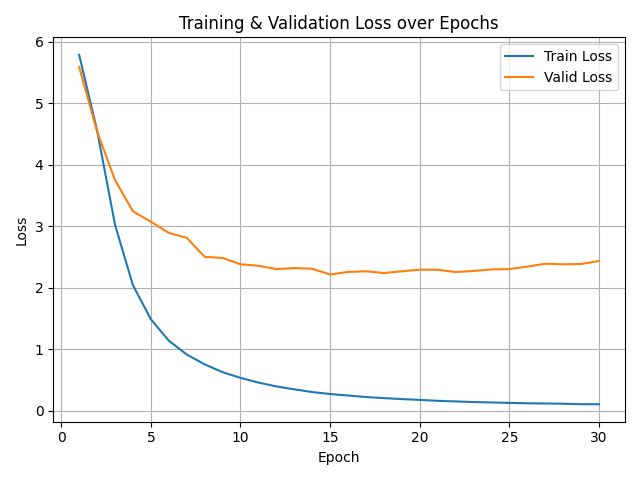
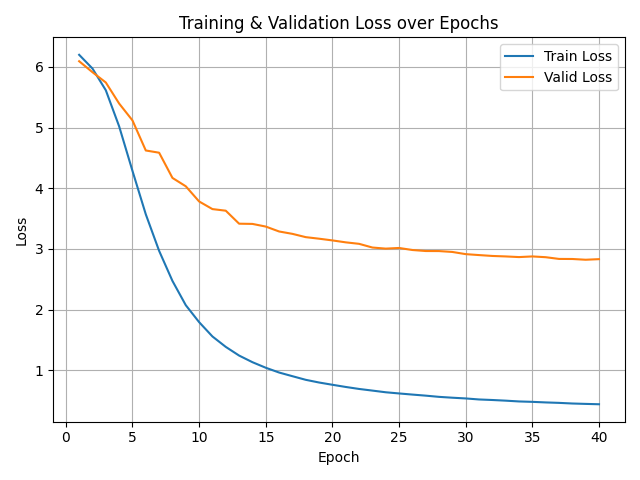
feat: add visualize.py

diff --git a/visualize.py b/visualize.py
@@ -1,0 +1,107 @@
+import os
+
+import matplotlib.pyplot as plt
+import torch
+import torch.nn.functional as F
+from PIL import Image
+
+from data_loader import Flickr8kDataset
+from models.image_encoder import ImageEncoder
+from models.text_encoder import TextEncoder
+from utils import SimpleTokenizer
+
+
+def visualize_text_to_image(
+    query_caption: str,
+    img_encoder: torch.nn.Module,
+    txt_encoder: torch.nn.Module,
+    dataset: Flickr8kDataset,
+    tokenizer: SimpleTokenizer,
+    device: torch.device,
+    topk: int = 5,
+    image_embeds_cache: torch.Tensor = None,
+):
+    img_encoder.eval()
+    txt_encoder.eval()
+
+    # 1. 计算或加载所有图片的嵌入
+    if image_embeds_cache is None:
+        all_embeds = []
+        with torch.no_grad():
+            for fn, _ in dataset.pairs:
+                img = Image.open(os.path.join(dataset.root_dir, fn)).convert("RGB")
+                x = dataset.transform(img).unsqueeze(0).to(device)
+                all_embeds.append(img_encoder(x).cpu())
+        image_embeds = torch.cat(all_embeds, dim=0)  # [N, D]
+    else:
+        image_embeds = image_embeds_cache
+
+    image_embeds = F.normalize(image_embeds, dim=1)
+
+    # 2. 编码查询文本
+    tok_ids = tokenizer.encode(query_caption)
+    tok_ids = tok_ids[: dataset.max_len] + [tokenizer.pad_token_id] * max(
+        0, dataset.max_len - len(tok_ids)
+    )
+    cap = torch.tensor(tok_ids, device=device).unsqueeze(0)
+    with torch.no_grad():
+        txt_embed = txt_encoder(cap).cpu()
+    txt_embed = F.normalize(txt_embed, dim=1)  # [1, D]
+
+    # 3. 计算相似度，取 Top-K
+    sims = (txt_embed @ image_embeds.t()).squeeze(0)  # [N]
+    top_vals, top_idxs = sims.topk(topk, largest=True)
+
+    # 4. 可视化
+    fig, axes = plt.subplots(1, topk, figsize=(3 * topk, 3))
+    fig.suptitle(f'Query: "{query_caption}"', fontsize=14)
+    for rank, idx in enumerate(top_idxs.tolist(), 1):
+        fn, _ = dataset.pairs[idx]
+        img = Image.open(os.path.join(dataset.root_dir, fn)).convert("RGB")
+        axes[rank - 1].imshow(img)
+        axes[rank - 1].set_title(f"#{rank} Score={top_vals[rank - 1]:.2f}")
+        axes[rank - 1].axis("off")
+    plt.tight_layout()
+    plt.show()
+
+
+if __name__ == "__main__":
+    # ---- 配置 ----
+    device = torch.device("cuda" if torch.cuda.is_available() else "cpu")
+    # 构建 tokenizer（需与训练时保持一致）
+    captions = [...]  # 所有原始 caption 列表
+    tokenizer = SimpleTokenizer(captions, min_freq=1)
+    vocab_size = len(tokenizer)
+
+    # 加载模型
+    ckpt = torch.load("chpts/best_clip_model.pth", map_location=device)
+    img_enc = ImageEncoder(embed_dim=256).to(device)
+    txt_enc = TextEncoder(vocab_size, embed_dim=256, encoder_type="transformer").to(
+        device
+    )
+    img_enc.load_state_dict(ckpt["img_encoder_state_dict"])
+    txt_enc.load_state_dict(ckpt["txt_encoder_state_dict"])
+
+    # 构建 dataset
+    dataset = Flickr8kDataset(
+        root_dir="Flickr8k/images",
+        captions_file="Flickr8k/val_captions.txt",
+        tokenizer=tokenizer,
+    )
+
+    # 可选：预先计算图片嵌入并缓存
+    # image_embeds_cache = ...
+    image_embeds_cache = None
+
+    # 输入一个句子，查看 Top-5 检索结果
+    query = "A man riding a bicycle on a country road."
+    visualize_text_to_image(
+        query_caption=query,
+        img_encoder=img_enc,
+        txt_encoder=txt_enc,
+        dataset=dataset,
+        tokenizer=tokenizer,
+        device=device,
+        topk=5,
+        image_embeds_cache=image_embeds_cache,
+    )

diff --git a/train.py b/train.py
@@ -117,20 +117,27 @@ def main():
     )
 
     # 构造模型（设定 embed_dim=256）
-    embed_dim = 512
+    embed_dim = 256
     img_encoder = ImageEncoder(embed_dim=embed_dim).to(device)
     txt_encoder = TextEncoder(
         vocab_size, embed_dim=embed_dim, encoder_type="transformer"
     ).to(device)
 
     # 优化器
-    optimizer = torch.optim.Adam(
-        list(img_encoder.parameters()) + list(txt_encoder.parameters()), lr=1e-4
+    # optimizer = torch.optim.Adam(
+    #     list(img_encoder.parameters()) + list(txt_encoder.parameters()), lr=1e-4
+    # )
+    optimizer = torch.optim.SGD(
+        list(img_encoder.parameters()) + list(txt_encoder.parameters()),
+        lr=1e-3,  # 通常 SGD 要比 Adam 用稍大的 lr
+        momentum=0.9,  # 动量
+        weight_decay=1e-4,  # 权重衰减
+        nesterov=True,  # 可选：Nesterov 动量
     )
 
     # best_val_loss = float("inf")
     best_recall = 0.0
-    epochs = 30
+    epochs = 40
     train_losses = []
     valid_losses = []
     for epoch in range(epochs):

diff --git a/report/report.md b/report/report.md
@@ -1,5 +1,47 @@
 # 媒体与认知 上机作业
 
+## 整体方案
+
+本次上机实验的目标是搭建一个简单的多模态模型，通过图像和文本的对比学习，实现图像和文本之间的相互检索。
+
+模型的主题是一个图像编码器 Image Encoder 和一个文本编码器 Text Encoder，模型所学习的数据集是一组图片和若干条对与图像信息的文本描述 caption，Image Encoder 和 Text Encoder 分别对输入的图像和文本进行编码，得到图像和文本的特征向量 Embedding，并且是相同维度。在共享空间中，图像嵌入和文本嵌入两两之间计算余弦相似度，得到图像和文本之间的相似度矩阵。训练过程中，通过相似度矩阵计算 InfoNCE 损失函数，并自动反向传播更新模型参数，由此完成模型的训练。
+
+### 准备部分
+
+文件 `utils.py` 定义了 `SimpleTokenizer` 类，主要功能为：
+
+1. `self.build_vocab` ：根据若干条文本 `captions` 构建词表 `self.word2idx` ，将数据集中出现的较高频词映射到整数索引。填充 PAD 的定义其索引为0，词表中未出现的词定义其索引为1。
+2. `self.encode` ：将给定输入文本 `text` 中的每个词转换为其在词表中的索引，返回一个整数列表 `token_ids` ，并截取或填充到固定长度，便于不同序列拼接为张量。
+3. `self.__len__` ：返回词表的总长度。
+
+文件 `data_loader.py` 定义了 `Flickr8kDataset` 数据集类，主要功能为：
+
+1. `self._load_pairs` ：从文件提取图片文件名和对应的文字描述，生成一个“图像文件名+文本描述”的列表。
+2. `self.__len__` ：返回数据集的大小。
+3. `self.__getitem__` ：根据索引，返回图像张量，形状为 `(B, 3, H, W)` （彩色图像通达数为3），以及对应的文本描述经过 encode 之后的 ID 张量，形状为 `(B, max_len)` 。
+
+文件 `loss.py` 定义了 InfoNCE 损失函数，根据图像的嵌入张量和文本的嵌入张量，计算余弦相似度矩阵，然后利用交叉熵得到“图像到文本方向的损失函数”和“文本到图像方向的损失函数”，取平均值作为最终的损失函数。
+
+### 模型部分
+
+图像编码器 `ImageEncoder` 类：使用自定义的 `ResNet18` 模型。在模型的前向传播中，输入的图像张量依次经过卷积、池化，并在4个 layer 阶段中通过下采样 downsample ，使得特征图大小减半、通道数翻倍，最后通过全局平均池化、展平得到一维向量。通过全连接层，将 ResNet 的输出映射到共享空间，得到归一化的图像的嵌入张量 embedding。另外，通过残差连接，可以让模型学习“残差为0”，而不是恒等映射，可以加快模型的收敛性速度，缓解梯度消失问题。
+
+文本编码器 `TextEncoder` 类：使用自定义的 Transformer 模型。首先在 `PositionalEncoding` 中对输入的文本嵌入进行位置编码，保证无序的子注意力能够区分 token 的先后顺序。在 `MultiHeadSelfAttention` 多头自注意力中，先一次性生成投影 Q,K,V 矩阵，划分为多个头并行计算，分别计算注意力分数和注意力权重（缩放点积 + softmax），最后合并多头，输出投影结果。在 `TransformerBlock` 中，子注意力子层和前馈网络子层均使残差连接，可以增大网络深度。最后在 `TransformerTextEncoder` 的前向传播中，输入的文本张量依次经过嵌入、位置编码、残差连接的 layer 层和全连接层，得到归一化的文本的嵌入张量 embedding。
+
+## 实验过程
+
+进行训练时，
+
+实验过程中，我先是尝试增大 `batch_size` 至较大值，例如512，尝试增大嵌入向量的维度 `embed_dim` 至512，这样每一批次读取的数据增多，嵌入维度增大，或许能够学习到更多细节特征，准确率会有一定提高。但是在这种情况下训练很快就出现过拟合，仅仅经过30个 epoch 后，验证集上的损失就开始出现略微的上升趋势，在第50个 epoch 时出现明显的过拟合。因此我将 `embed_dim` 降低至256，`batch_size` 仍为 512，此时训练经过 40 个 epoch 后，验证集上的损失逐渐收敛并保持平稳，结果中的 Top@K 指标也保持较高，且不低于很大 `embed_dim` 的情况。
+
+## 结果分析
+
+## 可视化展示
+
+编写可视化文件 `visualize.py` 。
+
+## 实验总结
+
 使用 LSTM 模型，batch_size=128,epochs=40测试及测试结果：
 
 ```text
@@ -28,7 +70,7 @@ Recall@5: 47.01%
 Recall@10: 56.08%
 ```
 
-使用 LSTM 模型，batch_size=512,num_workers=12,embed_dim=512,epochs=30测试及测试结果：
+使用 transformer 模型，batch_size=512,num_workers=12,embed_dim=512,epochs=30测试及测试结果：
 
 ```text
 📈 Text → Image Retrieval:
@@ -41,3 +83,49 @@ Recall@1: 27.95%
 Recall@5: 49.58%
 Recall@10: 58.18%
 ```
+
+使用 transformer 模型，batch_size=512,num_workers=12,embed_dim=256,epochs=30测试及测试结果：
+Final Test Loss: 2.2788.
+
+📈 Text → Image Retrieval:
+Recall@1: 29.71%
+Recall@5: 54.72%
+Recall@10: 63.27%
+
+📈 Image → Text Retrieval:
+Recall@1: 29.81%
+Recall@5: 51.90%
+Recall@10: 60.87%
+
+使用 transformer 模型，batch_size=512,num_workers=12,embed_dim=256,epochs=40测试及测试结果：
+Final Test Loss: 2.3385.
+
+📈 Text → Image Retrieval:
+Recall@1: 28.32%
+Recall@5: 53.53%
+Recall@10: 63.00%
+
+📈 Image → Text Retrieval:
+Recall@1: 29.16%
+Recall@5: 52.22%
+Recall@10: 61.10%
+
+换一个优化器
+    optimizer = torch.optim.SGD(
+        list(img_encoder.parameters()) + list(txt_encoder.parameters()),
+        lr=1e-3,  # 通常 SGD 要比 Adam 用稍大的 lr
+        momentum=0.9,  # 动量
+        weight_decay=1e-4,  # 权重衰减
+        nesterov=True,  # 可选：Nesterov 动量
+    )
+
+Final Test Loss: 2.7569.
+📈 Text → Image Retrieval:
+Recall@1: 23.41%
+Recall@5: 46.37%
+Recall@10: 54.57%
+
+📈 Image → Text Retrieval:
+Recall@1: 24.67%
+Recall@5: 44.51%
+Recall@10: 53.81%

diff --git a/README.md b/README.md
@@ -1,2 +1,3 @@
 # media-cognition-project
-This is the repositpry of CLIP model, the project of the courese Media and Cognition, 2025 spring, the Department of Electronic Engineering, Tsinghua University.
+
+This is a simple CLIP(Contrastive Language–Image Pretraining) model, the project of the courese Media and Cognition, 2025 spring, the Department of Electronic Engineering, Tsinghua University.
